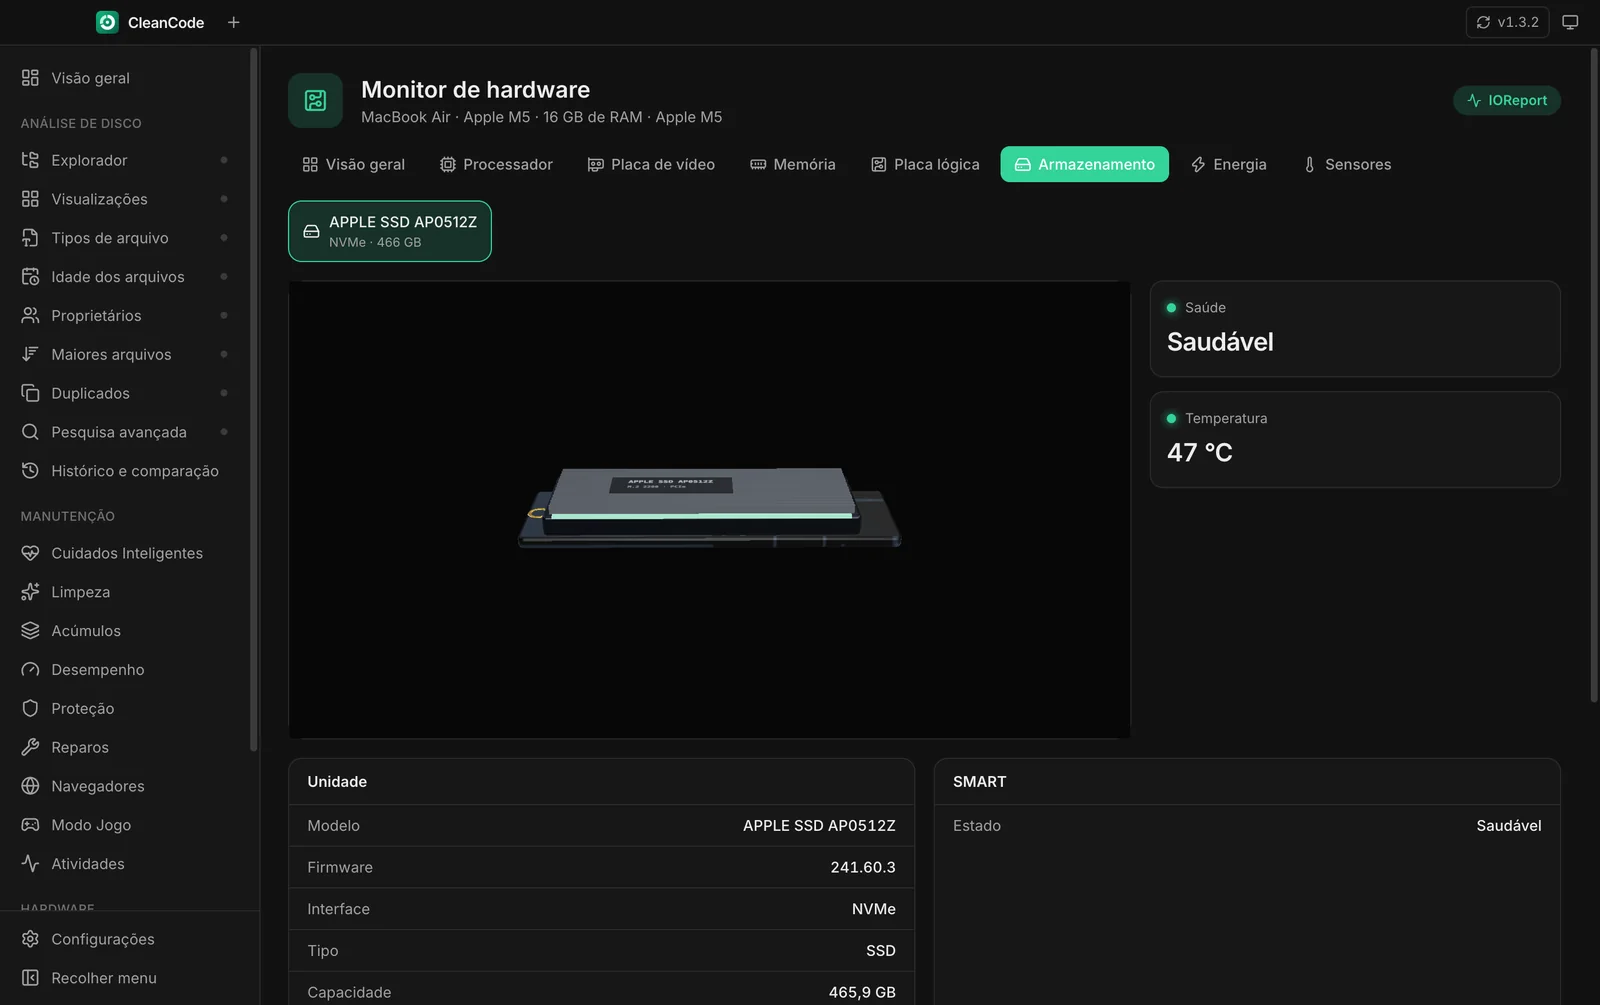
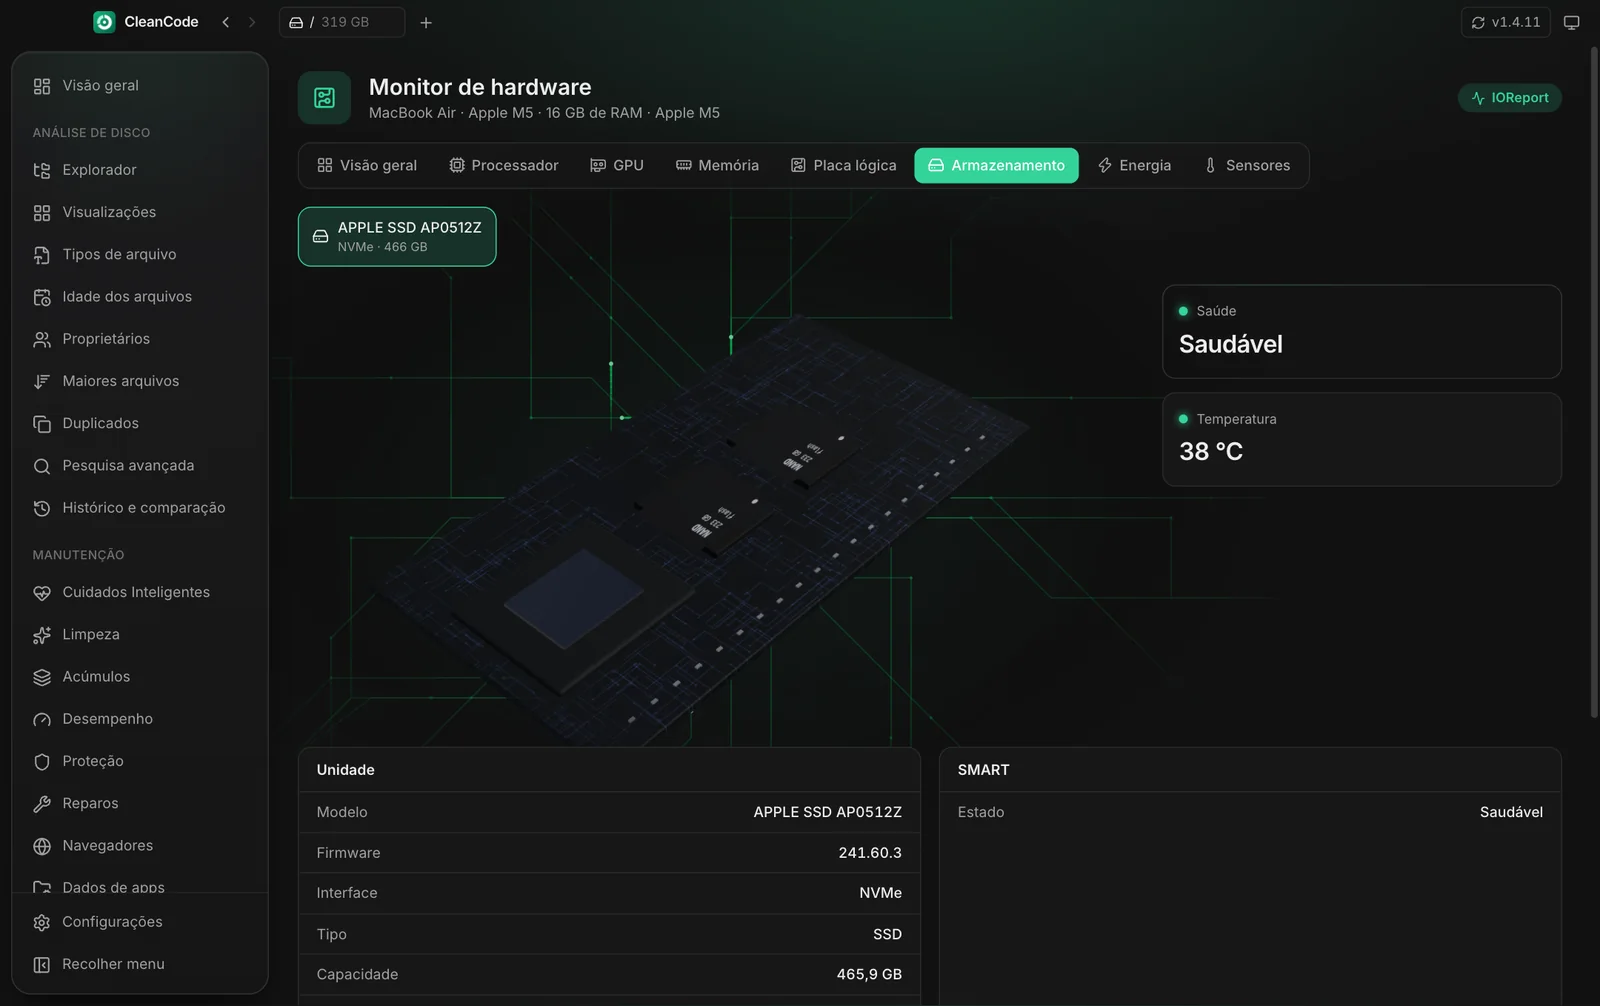
README: hero animado com o MacBook em 3D e capturas atualizadas

diff --git a/README.md b/README.md
@@ -24,7 +24,7 @@
 </div>
 
 <p align="center">
-  <img src="docs/screenshots/hero.webp" alt="CleanCode: Monitor de hardware com o painel da barra de menus aberto" width="100%" />
+  <img src="docs/screenshots/hero.webp" alt="CleanCode: Monitor de hardware com o MacBook em 3D e a câmera passeando pelo modelo" width="100%" />
 </p>
 
 ---
@@ -63,7 +63,7 @@ Tudo foi feito para ser **seguro por padrão**:
 
 <table>
   <tr>
-    <td width="50%" valign="top"><img src="docs/screenshots/overview.webp" alt="Visão geral" width="100%" /><br /><strong>Visão geral</strong><br />Unidades, espaço usado e livre, saúde do SSD e insights de limpeza.</td>
+    <td width="50%" valign="top"><img src="docs/screenshots/overview.webp" alt="Visão geral" width="100%" /><br /><strong>Visão geral</strong><br />Unidades, espaço usado e livre e o mapa do armazenamento: quanto ocupam apps, documentos, downloads, caches e o sistema.</td>
     <td width="50%" valign="top"><img src="docs/screenshots/visual.webp" alt="Treemap" width="100%" /><br /><strong>Visualizações</strong><br />Treemap com relevo 3D, pizza e barras: as pastas que mais pesam num relance.</td>
   </tr>
   <tr>
@@ -93,7 +93,7 @@ Tudo foi feito para ser **seguro por padrão**:
 
 <table>
   <tr>
-    <td width="50%" valign="top"><img src="docs/screenshots/hardware.webp" alt="Visão geral do hardware" width="100%" /><br /><strong>Visão geral</strong><br />Placa-mãe em 3D com trilhas de dados animadas. Clique em cada componente para abrir os detalhes.</td>
+    <td width="50%" valign="top"><img src="docs/screenshots/hardware.webp" alt="Visão geral do hardware" width="100%" /><br /><strong>Visão geral</strong><br />O seu computador em 3D (MacBook, notebook ou PC), com câmera em movimento e circuitos animados ao fundo, ao lado dos números ao vivo.</td>
     <td width="50%" valign="top"><img src="docs/screenshots/hw-cpu.webp" alt="Processador" width="100%" /><br /><strong>Processador</strong><br />Cada núcleo acende conforme a própria carga; núcleos de desempenho e de eficiência, cache e temperatura.</td>
   </tr>
   <tr>
